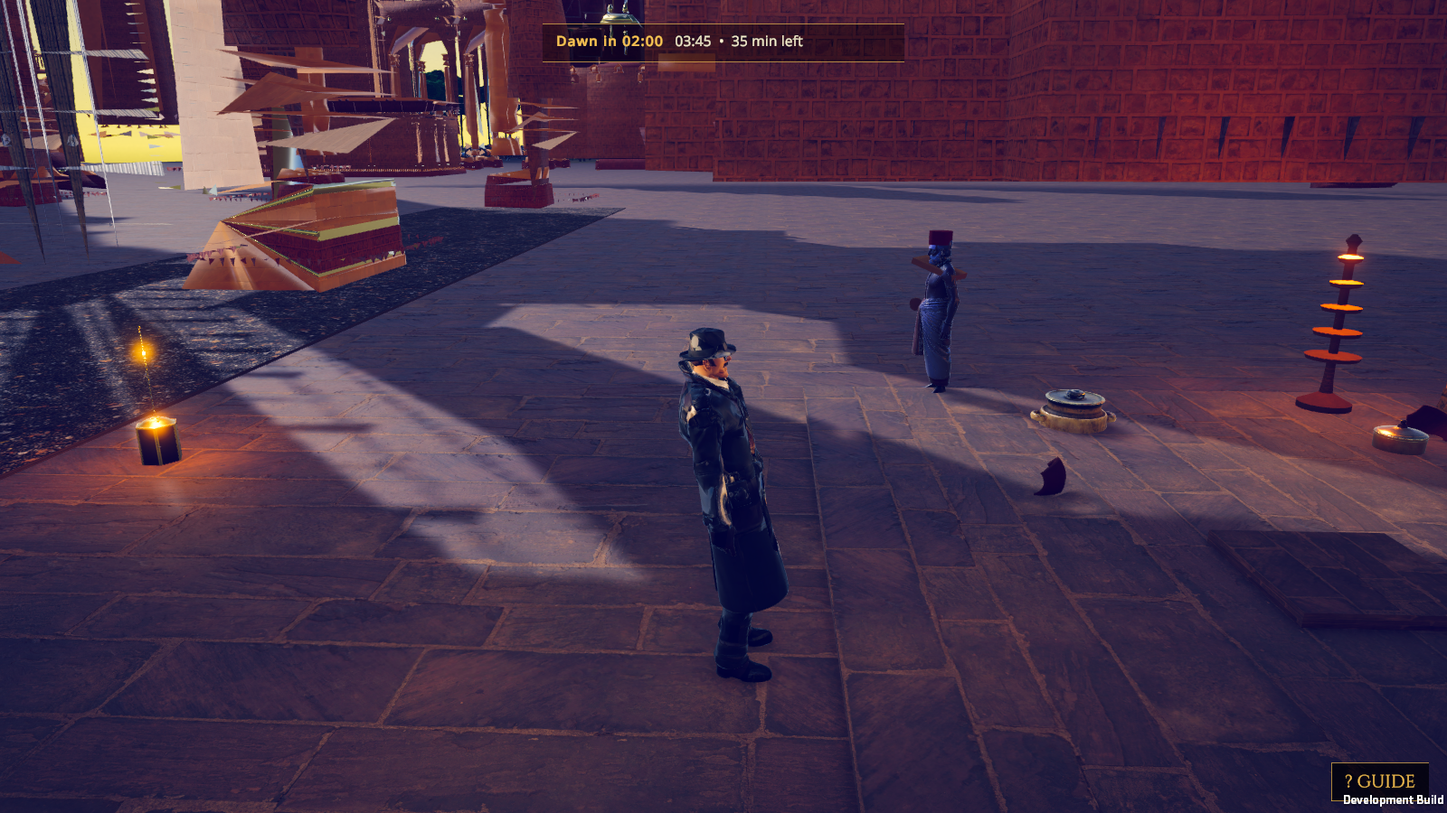
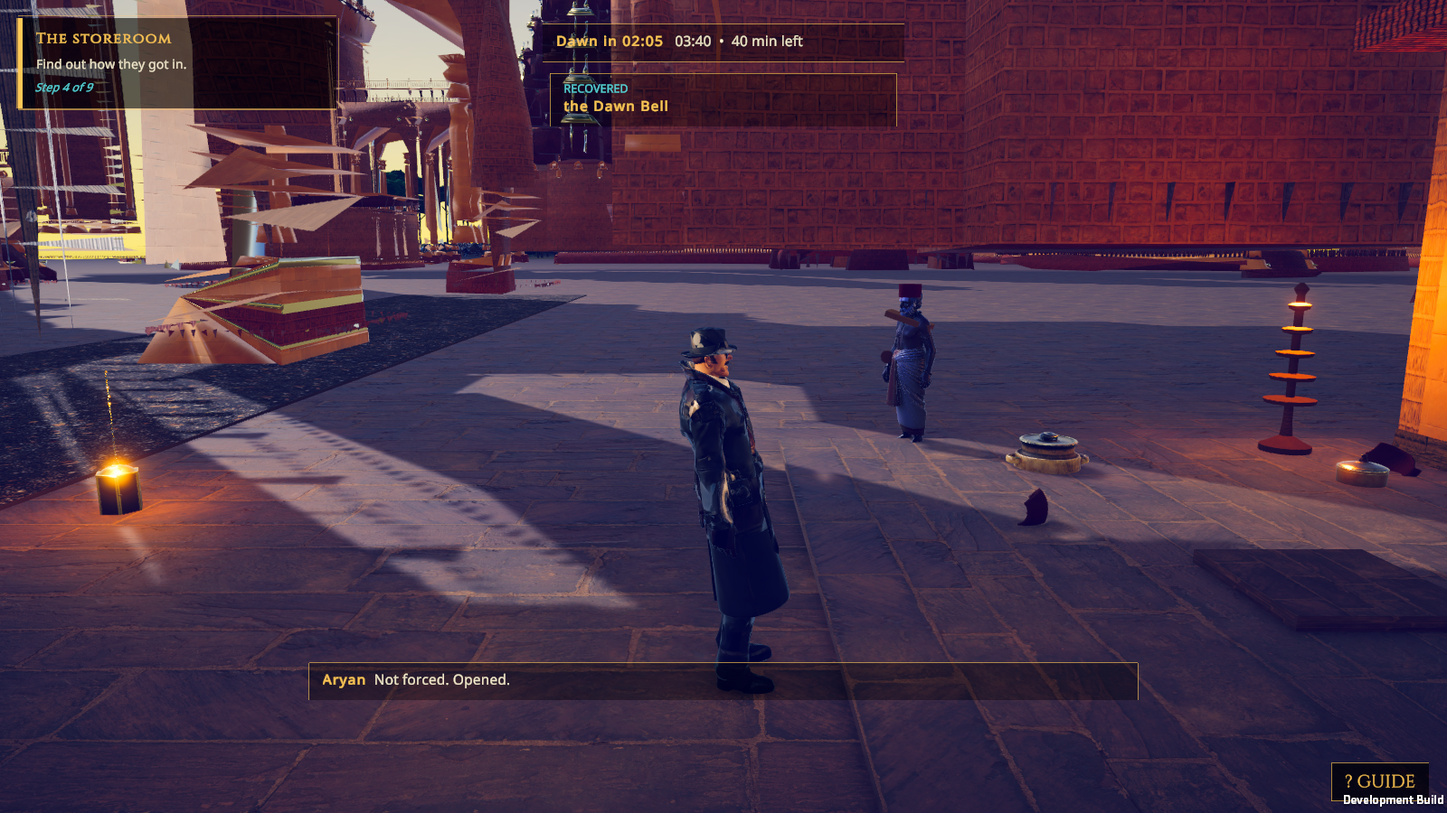
Submission documents: before/after sheet and table, attribution copy in Docs, test report notes; restore the last complete whole-game run as evidence

diff --git a/Docs/ATTRIBUTION.md b/Docs/ATTRIBUTION.md
@@ -1,0 +1,115 @@
+# Asset attribution and source audit
+
+Updated 7 November 2026. Two OFL fonts (Cinzel, Noto Sans) were downloaded on 7 Nov 2026; earlier sessions downloaded no external asset packs. Proposed downloads and inspected licenses are in ASSET_SHOPPING_LIST.md; proposals are not imported assets.
+
+| Title | Author | URL / source | License / status |
+|---|---|---|---|
+| Courtyard, menu and jungle horizon meshes; horizon material | Original project work created in this session | Assets/_Project/Scripts/World/Editor/CinematicLookTools.cs | Original project work; no third-party asset used |
+| Existing temple architecture and bells | User supplied; S20240010236 file prefix, authorship not independently established | Heritage Mystery Project/S20240010236JagannathTemple.blend; Assets/_Project/Models/Environment/Temple_Jagannath.fbx | Original license/ownership evidence not supplied; retained existing project asset, not asserted CC0 |
+| Existing Jagannath background shrine | User supplied; author not established | Heritage Mystery Project/S20240010236God.blend; Assets/_Project/Models/Environment/Idol_Jagannath.fbx | Original license evidence not supplied; respectful non-interactable background only |
+| Existing noir detective / Gumshoe / Jonesy model and textures | Original rights holder not established from local files | Heritage Mystery Project/noir-detective/source/Noir.glb; detective meshes in assets.blend | Identity and license review pending. Do not infer ownership or CC0 from local availability |
+| Existing saree villager and Catwalk Idle | Original model/animation creators not established | Heritage Mystery Project/indian-woman-in-saree/source/Catwalk Idle.fbx | Original license evidence not supplied. No new download; existing Meera model retained |
+| Existing priest sculpt | Original creator not established | Heritage Mystery Project/24568fb5-86ea-4016-a801-fba755733263_0/ | Original license evidence not supplied; rigging of an approved copy pending |
+| Existing armoured king and winged-boss exports used as robbers | Original creators not established | Heritage Mystery Project/corrupted-king-in-black-armor-with-bone-crown/ and corrupted-archangel-six-wings-boss/ | Requested cast mismatch. License evidence missing. No new substitutions or exports made |
+| Existing procedural stone textures | Not established from checked local provenance | Assets/_Project/Models/Environment/Textures/ | Existing files retained; do not label them photographs or verified CC0 |
+| Existing audio | See existing project audio ledger | Assets/_Project/Audio/ATTRIBUTION.md | Existing ledger retained; no new audio created in this session |
+| Cinzel (title font) | Natanael Gama, The Cinzel Project Authors | https://fonts.google.com/specimen/Cinzel ; file https://github.com/google/fonts/tree/main/ofl/cinzel | SIL Open Font License 1.1 (licence text: Assets/_Project/Resources/Fonts/OFL-Cinzel.txt). Downloaded 7 Nov 2026, unmodified; TMP SDF asset generated at runtime |
+| Noto Sans (body font) | The Noto Project Authors (Google) | https://fonts.google.com/noto/specimen/Noto+Sans ; file https://github.com/google/fonts/tree/main/ofl/notosans | SIL Open Font License 1.1 (licence text: Assets/_Project/Resources/Fonts/OFL-NotoSans.txt). Downloaded 7 Nov 2026, unmodified; TMP SDF asset generated at runtime |
+| Mixamo animations (Idle, Walking, Running, Crouch, Jump; staging folder) | Adobe Mixamo | https://www.mixamo.com | Mixamo terms: free for personal and commercial use in projects, no redistribution of the raw files as a standalone library |
+| Character voices (41 dialogue lines) | Synthesized with macOS `say` (voices Aman, Rishi, Tara, Rocko, Reed, Grandpa) on 7 Nov 2026 | Assets/_Project/Resources/Voice/ | PLACEHOLDER synthetic speech for development only. Replace with real recorded voice-over (with performer consent and license) before any public release. |
+| Liberation Sans (existing TMP font dependency) | Ascender / Liberation contributors; see bundled license | Assets/TextMesh Pro/Fonts/LiberationSans - OFL.txt | Bundled SIL Open Font License; existing dependency, no font downloaded |
+
+Unity, URP and the built-in procedural sky shader are existing engine/package dependencies, not new third-party art imports. The lighting profiles are project configuration. The old generated investigator `.anim` clips are disabled, and their generator no longer creates substitute animation; they are not credited as motion capture.
+
+Before adding an approved external asset, record its exact title, artist, asset URL, license/version and any modifications here. Missing evidence above remains missing; this file does not grant rights or certify publication clearance.
+
+## v2 thriller update (2026-11-11)
+
+| File(s) in project | Title | Author | Source | Licence | Notes |
+|---|---|---|---|---|---|
+| Assets/_Project/Audio/Resources/Audio/fs_*, sfx_*, amb_*, mus_* (69 files) | Core sound effects, ambience loops and five adaptive music stems | Project (generated by Tools/audio/build_audio.py) | Own work, synthesised with numpy | Own work (CC0) | Nothing downloaded. No Sonniss or third-party audio is in the repository. |
+| Assets/_Project/Resources/Voice/*/*_tts.wav (113 files) | Placeholder voices for every script line | macOS `say` voices (Aman, Rishi, Tara, Rocko, Reed, Grandpa) via Tools/story/build_story.py | Generated on this Mac | Placeholder: Apple system voices. **Replace with recorded voices before any public release.** | Recorded files named `<line_id>.wav` override them automatically. |
+| Assets/_Project/UI/Loading/loading_01..04 (4 images) | Loading screen pictures | Supplied by the project owner (AI-generated images) | Provided in chat, 2026-11-11 | Owner's responsibility: check the image generator's terms before public release | A faint generator watermark is visible in the top-right corner. |
+| Assets/_Project/Art/FX/*.png, Resources/FX/*.mat | Particle textures and materials (rain, mist, glow, sparks) | Project (generated by FxAssetTools) | Own work | Own work (CC0) | |
+| Assets/_Project/Audio/Resources/Audio/LotMixer.mixer | Audio mixer | Project (generated by MixerTools) | Own work | Own work | |
+| Prefabs/Characters/Robber1, Robber2 | Stand-in robbers | Copies of the project's own detective model with simple props | Own project asset | Same as the detective model | Temporary stand-ins: see Docs/BLOCKED.md |
+
+## Art upgrade: Poly Haven models and textures (2026-11-14)
+
+All from polyhaven.com, licence CC0 1.0 (public domain), downloaded with Tools/assets/fetch_polyhaven.py. Textures were converted to URP materials (Resources/Mats) and models to prefabs (Resources/Props) by PolyHavenTools.
+
+| File(s) in project | Title | Author | Source | Licence |
+|---|---|---|---|---|
+| Assets/_Project/Art/PolyHaven/Models/brass_diya_lantern/ | Brass Diya Lantern | Bhargav Kubal | https://polyhaven.com/a/brass_diya_lantern | CC0 1.0 |
+| Assets/_Project/Art/PolyHaven/Models/brass_pot_01/ | Brass Pot 01 | Rico Cilliers | https://polyhaven.com/a/brass_pot_01 | CC0 1.0 |
+| Assets/_Project/Art/PolyHaven/Models/brass_pot_02/ | Brass Pot 02 | Rico Cilliers | https://polyhaven.com/a/brass_pot_02 | CC0 1.0 |
+| Assets/_Project/Art/PolyHaven/Models/brass_vase_03/ | Brass Vase 03 | Rico Cilliers | https://polyhaven.com/a/brass_vase_03 | CC0 1.0 |
+| Assets/_Project/Art/PolyHaven/Models/brass_goblets/ | Brass Goblets | Tina | https://polyhaven.com/a/brass_goblets | CC0 1.0 |
+| Assets/_Project/Art/PolyHaven/Models/vintage_oil_lamp/ | Vintage Oil Lamp | Monsta3D | https://polyhaven.com/a/vintage_oil_lamp | CC0 1.0 |
+| Assets/_Project/Art/PolyHaven/Models/wooden_lantern_01/ | Wooden Lantern 01 | James Ray Cock | https://polyhaven.com/a/wooden_lantern_01 | CC0 1.0 |
+| Assets/_Project/Art/PolyHaven/Models/lion_head/ | Lion Head | Tina | https://polyhaven.com/a/lion_head | CC0 1.0 |
+| Assets/_Project/Art/PolyHaven/Models/carved_wooden_elephant/ | Carved Wooden Elephant | Greg Zaal | https://polyhaven.com/a/carved_wooden_elephant | CC0 1.0 |
+| Assets/_Project/Art/PolyHaven/Models/carved_wooden_plate/ | Carved Wooden Plate | Jan Martens | https://polyhaven.com/a/carved_wooden_plate | CC0 1.0 |
+| Assets/_Project/Art/PolyHaven/Models/fern_02/ | Fern 02 | Rob Tuytel, Rico Cilliers | https://polyhaven.com/a/fern_02 | CC0 1.0 |
+| Assets/_Project/Art/PolyHaven/Models/nettle_plant/ | Nettle Plant | Rob Tuytel, Rico Cilliers | https://polyhaven.com/a/nettle_plant | CC0 1.0 |
+| Assets/_Project/Art/PolyHaven/Models/periwinkle_plant/ | Periwinkle Plant | Amal Kumar | https://polyhaven.com/a/periwinkle_plant | CC0 1.0 |
+| Assets/_Project/Art/PolyHaven/Models/rock_07/ | Rock 07 | Jenelle van Heerden | https://polyhaven.com/a/rock_07 | CC0 1.0 |
+| Assets/_Project/Art/PolyHaven/Models/rock_09/ | Rock 09 | Jenelle van Heerden | https://polyhaven.com/a/rock_09 | CC0 1.0 |
+| Assets/_Project/Art/PolyHaven/Models/rock_moss_set_01/ | Rock Moss Set 01 | Kless Gyzen | https://polyhaven.com/a/rock_moss_set_01 | CC0 1.0 |
+| Assets/_Project/Art/PolyHaven/Models/rock_moss_set_02/ | Rock Moss Set 02 | Kless Gyzen | https://polyhaven.com/a/rock_moss_set_02 | CC0 1.0 |
+| Assets/_Project/Art/PolyHaven/Models/tree_stump_01/ | Tree Stump 01 | Rob Tuytel | https://polyhaven.com/a/tree_stump_01 | CC0 1.0 |
+| Assets/_Project/Art/PolyHaven/Models/Barrel_01/ | Barrel_01 | Jorge Camacho | https://polyhaven.com/a/Barrel_01 | CC0 1.0 |
+| Assets/_Project/Art/PolyHaven/Models/ceramic_vase_01/ | Ceramic Vase 01 | James Ray Cock | https://polyhaven.com/a/ceramic_vase_01 | CC0 1.0 |
+| Assets/_Project/Art/PolyHaven/Models/antique_ceramic_vase_01/ | Antique Ceramic Vase 01 | James Ray Cock | https://polyhaven.com/a/antique_ceramic_vase_01 | CC0 1.0 |
+| Assets/_Project/Art/PolyHaven/Models/stone_fire_pit/ | Stone Fire Pit | Sebastian Platen | https://polyhaven.com/a/stone_fire_pit | CC0 1.0 |
+| Assets/_Project/Art/PolyHaven/Models/large_castle_door/ | Large Castle Door | Tina | https://polyhaven.com/a/large_castle_door | CC0 1.0 |
+| Assets/_Project/Art/PolyHaven/Models/WoodenTable_01/ | Wooden Table 01 | Ethan Place | https://polyhaven.com/a/WoodenTable_01 | CC0 1.0 |
+| Assets/_Project/Art/PolyHaven/Models/folding_wooden_stool/ | Folding Wooden Stool | Ulan Cabanilla | https://polyhaven.com/a/folding_wooden_stool | CC0 1.0 |
+| Assets/_Project/Art/PolyHaven/Models/wooden_bowl_02/ | Wooden Bowl 02 | Kuutti Siitonen | https://polyhaven.com/a/wooden_bowl_02 | CC0 1.0 |
+| Assets/_Project/Art/PolyHaven/Models/calathea_orbifolia_01/ | Calathea Orbifolia 01 | Rob Tuytel, Rico Cilliers | https://polyhaven.com/a/calathea_orbifolia_01 | CC0 1.0 |
+| Assets/_Project/Art/PolyHaven/Models/dry_branches_medium_01/ | Dry Branches Medium 01 | Rico Cilliers | https://polyhaven.com/a/dry_branches_medium_01 | CC0 1.0 |
+| Assets/_Project/Art/PolyHaven/Models/ceramic_pot/ | Ceramic Pot | Aron Łyczek | https://polyhaven.com/a/ceramic_pot | CC0 1.0 |
+| Assets/_Project/Art/PolyHaven/Models/planter_box_01/ | Planter Box 01 | James Ray Cock | https://polyhaven.com/a/planter_box_01 | CC0 1.0 |
+| Assets/_Project/Art/PolyHaven/Textures/red_sandstone_pavement/ | Red Sandstone Pavement | Amal Kumar | https://polyhaven.com/a/red_sandstone_pavement | CC0 1.0 |
+| Assets/_Project/Art/PolyHaven/Textures/red_sandstone_wall/ | Red Sandstone Wall | Amal Kumar | https://polyhaven.com/a/red_sandstone_wall | CC0 1.0 |
+| Assets/_Project/Art/PolyHaven/Textures/sandstone_blocks_08/ | Sandstone Blocks 08 | Rob Tuytel | https://polyhaven.com/a/sandstone_blocks_08 | CC0 1.0 |
+| Assets/_Project/Art/PolyHaven/Textures/mossy_sandstone/ | Mossy Sandstone | Dimitrios Savva | https://polyhaven.com/a/mossy_sandstone | CC0 1.0 |
+| Assets/_Project/Art/PolyHaven/Textures/clay_plaster/ | Clay Plaster | Amal Kumar | https://polyhaven.com/a/clay_plaster | CC0 1.0 |
+| Assets/_Project/Art/PolyHaven/Textures/yellow_plaster/ | Yellow Plaster | Rob Tuytel | https://polyhaven.com/a/yellow_plaster | CC0 1.0 |
+| Assets/_Project/Art/PolyHaven/Textures/white_plaster_rough_01/ | White Plaster Rough 01 | Rob Tuytel | https://polyhaven.com/a/white_plaster_rough_01 | CC0 1.0 |
+| Assets/_Project/Art/PolyHaven/Textures/thatch_roof_angled/ | Thatch Roof Angled | Rob Tuytel, Dimitrios Savva | https://polyhaven.com/a/thatch_roof_angled | CC0 1.0 |
+| Assets/_Project/Art/PolyHaven/Textures/clay_roof_tiles_02/ | Clay Roof Tiles 02 | Amal Kumar | https://polyhaven.com/a/clay_roof_tiles_02 | CC0 1.0 |
+| Assets/_Project/Art/PolyHaven/Textures/red_laterite_soil_stones/ | Red Laterite Soil Stones | Amal Kumar | https://polyhaven.com/a/red_laterite_soil_stones | CC0 1.0 |
+| Assets/_Project/Art/PolyHaven/Textures/forest_leaves_02/ | Forest Leaves 02 | Rob Tuytel | https://polyhaven.com/a/forest_leaves_02 | CC0 1.0 |
+| Assets/_Project/Art/PolyHaven/Textures/brown_mud_leaves_01/ | Brown Mud Leaves 01 | Rob Tuytel | https://polyhaven.com/a/brown_mud_leaves_01 | CC0 1.0 |
+| Assets/_Project/Art/PolyHaven/Textures/weathered_planks/ | Weathered Planks | Dario Barresi, Dimitrios Savva | https://polyhaven.com/a/weathered_planks | CC0 1.0 |
+| Assets/_Project/Art/PolyHaven/Textures/stony_dirt_path/ | Stony Dirt Path | eye-candy.xyz | https://polyhaven.com/a/stony_dirt_path | CC0 1.0 |
+| Assets/_Project/Art/PolyHaven/Textures/bark_brown_02/ | Bark Brown 02 | Rob Tuytel | https://polyhaven.com/a/bark_brown_02 | CC0 1.0 |
+| Assets/_Project/Art/PolyHaven/Textures/medieval_wood/ | Medieval Wood | Rob Tuytel | https://polyhaven.com/a/medieval_wood | CC0 1.0 |
+| Assets/_Project/Resources/Mats/window_glow.mat | Lit-window material for village houses | Project | Own work | Own work (CC0) |
+
+## Part 2 (2026-11-15): car controller, jeep, village tree, tools
+
+| File(s) in project | Title | Author | Source | Licence | Notes |
+|---|---|---|---|---|---|
+| Assets/_Project/Scripts/Gameplay/Vehicles/CarController.cs, CarLights.cs, CarAudio.cs, CarFollowCamera.cs (and the speed panel in Jeep.cs) | Modular Car Controller (ported) | Ilisescu Adrian Corneliu | https://github.com/ilisescu03/Unity---Car-Controller | MIT | Ported and changed: namespace, input only while driving, four-wheel drive, Z/X indicators, gamepad and on-screen controls, MaterialPropertyBlock lamp glow. No demo terrain, sample scene or car mesh was copied. |
+| Assets/_Project/Resources/Audio/Car/Engine.mp3, Signal.mp3, Hit.mp3 | Engine, turn-signal and hit sounds | Ilisescu Adrian Corneliu | https://github.com/ilisescu03/Unity---Car-Controller | MIT (repository licence) | Unchanged |
+| Assets/_Project/Art/MedievalVillageKit/Tree/SM_Tree_Oak.fbx and T_Bark_*, T_Leaves_Atlas, T_Tree_Impostor_* | Oak tree with LODs and impostor | Daniel Gruginski | https://github.com/danielgruginski/MedievalVillageKit | CC0 1.0 | Only the tree was taken; the kit's buildings are medieval European and generated by its own Blender code, so they were not used for an Indian village. |
+| Assets/_Project/Scripts/World/Editor/ThirdParty/QuaterniusUtils.cs | Quaternius Utility Library for Unity | firstkindgamer | https://github.com/firstkindgamer/QuaterniusUnityUtils | Public domain (Unlicense) | One `#pragma warning disable 0162` line added to keep the build warning-free. |
+| Tools/blender/build_jeep_v2.py, Tools/blender/make_jeep_textures.py → Art_Source/Jeep/*, Assets/_Project/Models/Vehicles/Jeep/* (model, T_Jeep_Plate.png, T_Jeep_Emblem.png, T_Jeep_PaintDirt.png) | Investigator's jeep, version 2 (olive SUV), its number plate, original temple emblem and dirt texture | Project (own work) | Built from the owner's reference sheet Docs/References/jeep_3d_design_reference.png; no brand names or logos; plate number is fictional | Own work |
+| Assets/_Project/Audio/Resources/Audio/sfx_door_open, sfx_door_close, sfx_glass, sfx_metal_hit, sfx_phone_ring, amb_village, amb_birds, mus_intro | Jeep, village and intro sounds | Project (Tools/audio/build_audio_extra.py) | Own work, synthesised | Own work (CC0) | |
+| Assets/_Project/Resources/Voice/*/intro_*_tts.wav | Four intro lines | macOS `say` voices | Generated on this Mac | Placeholder (Apple system voices) | Replace with recorded voices before release. |
+| Assets/_Project/Resources/UI/Loading/loading_new_01..03.png | Loading screen pictures | Supplied by the project owner (AI-generated images) | Provided in chat, 2026-11-15 | Owner's responsibility | |
+| Art_Source/Temple/temple.fbx → Assets/_Project/Models/Temple/Temple_Game.fbx | Jagannath temple model | Supplied by the project owner | Added to Assets by the owner, 2026-11-15 | Owner's responsibility: source and licence not stated | Original kept unchanged; the game copy is reduced in Blender (Tools/blender/optimize_temple.py). |
+| Assets/_Project/Animations/Clips/Hero/Punch_Jab.anim, Punch_Cross.anim, Hit_Chest.anim, Driving_Loop.anim, Sitting_Enter.anim, Sitting_Exit.anim, Idle_Talking_Loop.anim | Universal Animation Library | Quaternius | https://quaternius.itch.io/universal-animation-library / https://github.com/J-Ponzo/gltf-universal-animation-library | CC0 1.0 (Public Domain) | Unarmed punches, hit reactions, driving and NPC idle-talking clips extracted and retargeted to Humanoid. |
+| github.com/GrokCodeReliant/OpenKit3D | Open Kit 3D | GrokCodeReliant | https://github.com/GrokCodeReliant/OpenKit3D | CC0 1.0 | Checked; nothing imported (its clips are Generic for its own rig). |
+
+## V3 (2026-11-16): tools
+| Files | Asset | Author | Source | Licence |
+|---|---|---|---|---|
+| .claude/skills/* (94 skill folders, references) | blender-skills pack (instructions for Blender work; no art assets) | blender-skills contributors | https://github.com/arjun988/blender-skills (commit 904f095) | MIT (copy at .claude/skills/BLENDER_SKILLS_LICENSE.txt) |
+| Tools/blender/build_breakin_pot.py, build_v3_props.py → Resources/Props/V3/* | Break-in pot and shards; carved pillar, coping, plinth, brass lamp stand, stone arch | Project (own work) | Modelled in Blender 5.2 by script | Own work |
+| Tools/blender/temple_lods.py, temple_lod3.py → Models/Temple/Temple_Game_LOD2/LOD3.fbx | Lighter versions of the game temple (made from the project's own optimised copy; the user's temple.fbx was not opened) | Project | Blender decimation | Same as the temple |
+| Tools/audio/build_v3_voices.py → Resources/Voice/*/v3_*_tts.wav | The 29 V3 spoken lines | Generated with macOS built-in text-to-speech voices (Rishi, Aman, Tara) | macOS `say` | Apple system voices; used here for a non-commercial student project. Replace with recorded voices before any commercial use. |
+| BazaarTail.cs (courier bell), Jeep.cs (horn) | Bell and horn sounds | Project (own work) | Synthesised in code | Own work |
+

diff --git a/Docs/QA/v3/story_run/audit.md b/Docs/QA/v3/story_run/audit.md
@@ -1,51 +1,48 @@
-# Runtime audit (2026-11-16 21:09, Standalone, 1600x900)
+# Runtime audit (2026-11-16 19:40, Standalone, 1600x900)
 
 ## UI: MainMenu
 
-#### UI table: MainMenu @ requested 1280x720 (actual 1280x720); TMP texts=9; active IMGUI(OnGUI) scripts not measurable=0
+#### UI table: MainMenu @ requested 1280x720 (actual 1280x720); TMP texts=8; active IMGUI(OnGUI) scripts not measurable=0
 | text | px@1080p | min | contrast(worst) | issues |
 |---|---|---|---|---|
-| BtnKeyHint: CONTROLS | 31 | 18 | 16.2 |  |
-| BtnKeyHint: NEW GAME | 31 | 18 | 16.2 |  |
-| MenuTitle: LEGACY OF THE TEMPLE | 58 | 48 | 9.8 |  |
-| BtnKeyHint: CREDITS | 31 | 18 | 16.2 |  |
 | MenuSubtitle: A heritage mystery | 29 | 26 | 13.8 |  |
-| BtnKeyHint: CONTINUE | 31 | 18 | 16.2 |  |
-| BtnKeyHint: QUIT | 31 | 18 | 16.2 |  |
+| BtnKeyHint: CONTROLS | 31 | 18 | 16.2 |  |
+| BtnKeyHint: CREDITS | 31 | 18 | 16.2 |  |
 | BtnKeyHint: SHOWCASE TOUR | 31 | 18 | 16.2 |  |
+| MenuTitle: LEGACY OF THE TEMPLE | 58 | 48 | 9.8 |  |
 | BtnKeyHint: SETTINGS | 31 | 18 | 16.2 |  |
+| BtnKeyHint: NEW GAME | 31 | 18 | 16.2 |  |
+| BtnKeyHint: QUIT | 31 | 18 | 16.2 |  |
 Problems in this view: 0
 
-#### UI table: MainMenu @ requested 1920x1080 (actual 1920x1080); TMP texts=9; active IMGUI(OnGUI) scripts not measurable=0
+#### UI table: MainMenu @ requested 1920x1080 (actual 1920x1080); TMP texts=8; active IMGUI(OnGUI) scripts not measurable=0
 | text | px@1080p | min | contrast(worst) | issues |
 |---|---|---|---|---|
-| BtnKeyHint: CONTROLS | 31 | 18 | 16.2 |  |
-| BtnKeyHint: NEW GAME | 31 | 18 | 16.2 |  |
-| MenuTitle: LEGACY OF THE TEMPLE | 58 | 48 | 9.8 |  |
-| BtnKeyHint: CREDITS | 31 | 18 | 16.2 |  |
 | MenuSubtitle: A heritage mystery | 29 | 26 | 13.8 |  |
-| BtnKeyHint: CONTINUE | 31 | 18 | 16.2 |  |
-| BtnKeyHint: QUIT | 31 | 18 | 16.2 |  |
+| BtnKeyHint: CONTROLS | 31 | 18 | 16.2 |  |
+| BtnKeyHint: CREDITS | 31 | 18 | 16.2 |  |
 | BtnKeyHint: SHOWCASE TOUR | 31 | 18 | 16.2 |  |
+| MenuTitle: LEGACY OF THE TEMPLE | 58 | 48 | 9.8 |  |
 | BtnKeyHint: SETTINGS | 31 | 18 | 16.2 |  |
+| BtnKeyHint: NEW GAME | 31 | 18 | 16.2 |  |
+| BtnKeyHint: QUIT | 31 | 18 | 16.2 |  |
 Problems in this view: 0
 
-#### UI table: MainMenu @ requested 2560x1440 (actual 2560x1440); TMP texts=9; active IMGUI(OnGUI) scripts not measurable=0
+#### UI table: MainMenu @ requested 2560x1440 (actual 2560x1440); TMP texts=8; active IMGUI(OnGUI) scripts not measurable=0
 | text | px@1080p | min | contrast(worst) | issues |
 |---|---|---|---|---|
-| BtnKeyHint: CONTROLS | 31 | 18 | 16.2 |  |
-| BtnKeyHint: NEW GAME | 31 | 18 | 16.2 |  |
-| MenuTitle: LEGACY OF THE TEMPLE | 58 | 48 | 9.8 |  |
-| BtnKeyHint: CREDITS | 31 | 18 | 16.2 |  |
 | MenuSubtitle: A heritage mystery | 29 | 26 | 13.8 |  |
-| BtnKeyHint: CONTINUE | 31 | 18 | 16.2 |  |
-| BtnKeyHint: QUIT | 31 | 18 | 16.2 |  |
+| BtnKeyHint: CONTROLS | 31 | 18 | 16.2 |  |
+| BtnKeyHint: CREDITS | 31 | 18 | 16.2 |  |
 | BtnKeyHint: SHOWCASE TOUR | 31 | 18 | 16.2 |  |
+| MenuTitle: LEGACY OF THE TEMPLE | 58 | 48 | 9.8 |  |
 | BtnKeyHint: SETTINGS | 31 | 18 | 16.2 |  |
+| BtnKeyHint: NEW GAME | 31 | 18 | 16.2 |  |
+| BtnKeyHint: QUIT | 31 | 18 | 16.2 |  |
 Problems in this view: 0
 
 ## Play-through from New Game (bot uses the Guide target for every objective)
-  loading bar: 30% at 0.72 s (image loading_e_robbery)
+  loading bar: 31% at 0.70 s (image loading_e_robbery)
   loading bar: 60% at 1.23 s (image loading_e_robbery)
   loading bar: 100% at 2.05 s (image loading_e_robbery)
   loading screen 1: image=loading_e_robbery, bar=1.00
@@ -64,19 +61,11 @@ Problems in this view: 0
   stood 6 m behind him in the open while he looked back: spotted 1
   tail finished: phase Arrived, spotted 1 time(s), 76 s
   fight begins: 2 enemy(ies): the courier (Knife, 70 hp), his helper (Brawler, 90 hp)
-  fight result: won=True in 11s, health left 88, damage taken 12, max combo 8, parries 1, finishers 2, retries 0; most attackers at once 1 (limit 2); telegraph seen=True; boss phase 2 seen=False, highest phase 1
+  fight result: won=True in 10s, health left 79, damage taken 21, max combo 10, parries 0, finishers 1, retries 0; most attackers at once 1 (limit 2); telegraph seen=True; boss phase 2 seen=False, highest phase 1
   take the Dawn Bell: prompt 'Take the Dawn Bell'
   bell taken=True, evidence list=1
-  score bazaar: puzzle solved=True, hints=0, items=1, points=3690, grade=S
+  score bazaar: puzzle solved=True, hints=0, items=1, points=3745, grade=S
   after the bazaar: objective obj_v3_storeroom (The storeroom)
-  PERF storeroom: 691 frames, average 5.8 ms (173 fps), 99% 9.1 ms, worst 16.1 ms, CPU main 2.3 ms, CPU render 1.0 ms, GPU 11.0 ms, graphics High, draw-visible villagers 0
-  PERF vaults: 631 frames, average 6.3 ms (158 fps), 99% 9.4 ms, worst 17.0 ms, CPU main 3.3 ms, CPU render 2.3 ms, GPU 9.3 ms, graphics High, draw-visible villagers 0
-  PERF stepwell: 1349 frames, average 3.0 ms (337 fps), 99% 5.3 ms, worst 11.5 ms, CPU main 1.4 ms, CPU render 0.5 ms, GPU 6.5 ms, graphics High, draw-visible villagers 0
-  PERF sunwall: 608 frames, average 6.6 ms (152 fps), 99% 9.2 ms, worst 12.6 ms, CPU main 3.3 ms, CPU render 2.1 ms, GPU 10.3 ms, graphics High, draw-visible villagers 0
-  PERF river road: 755 frames, average 5.3 ms (188 fps), 99% 8.6 ms, worst 11.1 ms, CPU main 2.9 ms, CPU render 2.1 ms, GPU 10.0 ms, graphics High, draw-visible villagers 0
-  PERF ruin court: 952 frames, average 4.2 ms (237 fps), 99% 8.7 ms, worst 19.4 ms, CPU main 2.3 ms, CPU render 1.6 ms, GPU 8.0 ms, graphics High, draw-visible villagers 0
-  PERF bazaar: 522 frames, average 7.7 ms (130 fps), 99% 10.5 ms, worst 17.0 ms, CPU main 4.7 ms, CPU render 4.6 ms, GPU 10.8 ms, graphics High, draw-visible villagers 11
-  PERF temple front: 613 frames, average 6.6 ms (153 fps), 99% 9.8 ms, worst 17.7 ms, CPU main 4.7 ms, CPU render 4.1 ms, GPU 9.8 ms, graphics High, draw-visible villagers 9
   Madhav at the storeroom: on stage (obj_v3_storeroom)
 
 ## V3 zone 2 break-in puzzle: present=True, built=True
@@ -106,3 +95,101 @@ Problems in this view: 0
   treasure taken=True; score: puzzle solved=True, hints=0, items=1, points=3800, grade=S
   checkpoint: courtyard/before_fight
   after the storeroom: objective obj_v3_vaults (The vaults)
+  Madhav at the vaults: on stage (obj_v3_vaults)
+
+## V3 zone 3 Vaults: present=True, built=True
+  start: gate open=False, plates 0 0
+  block B pushed the wrong way (west): prompt 'Push'
+  block B pushed the wrong way (west): prompt 'Push'
+  block B pushed the wrong way (west): prompt 'Push'
+  block B pushed the wrong way (west): prompt 'Push'
+  block B after wrong pushes at (-10.0, 0.5, -1.0)
+  reset lever: prompt 'Pull the reset lever'
+  after the lever: block A at (-8.0, 0.5, 3.0), block B at (-6.0, 0.5, -1.0)
+  block A east: prompt 'Push'
+  block A east: prompt 'Push'
+  block A east: prompt 'Push'
+  block A east: prompt 'Push'
+  block B south (round the pillar): prompt 'Push'
+  block B south (round the pillar): prompt 'Push'
+  block B east: prompt 'Push'
+  block B east: prompt 'Push'
+  blocks placed: A at (-4.0, 0.5, 3.0), B at (-4.0, 0.5, -3.0), plates 1 1, gate open=True
+  disc 1 turn 1: prompt 'Turn the stone disc'
+  disc 1 turn 2: prompt 'Turn the stone disc'
+  disc 2 turn 1: prompt 'Turn the stone disc'
+  disc 2 turn 2: prompt 'Turn the stone disc'
+  disc 2 turn 3: prompt 'Turn the stone disc'
+  disc 2 turn 4: prompt 'Turn the stone disc'
+  disc 2 turn 5: prompt 'Turn the stone disc'
+  disc 3 turn 1: prompt 'Turn the stone disc'
+  disc 3 turn 2: prompt 'Turn the stone disc'
+  disc 3 turn 3: prompt 'Turn the stone disc'
+  discs at 2 5 3 (answer 2 5 3), solved=True, evidence ledger=1
+  fight begins: 2 enemy(ies): the heavy guard (Heavy, 160 hp), the vault guard (Brawler, 90 hp)
+  fight result: won=True in 16s, health left 48, damage taken 52, max combo 7, parries 0, finishers 2, retries 0; most attackers at once 1 (limit 2); telegraph seen=True; boss phase 2 seen=False, highest phase 1
+  take the rosette: prompt 'Take the Sun Rosette'
+  rosette taken=True
+  score vaults: puzzle solved=True, hints=0, items=1, points=3590, grade=A
+  after the vaults: objective obj_v3_stepwell (The stepwell)
+  Madhav at the stepwell: on stage (obj_v3_stepwell)
+
+## V3 zone 4 Stepwell: present=True, built=True
+  start: water level 0, panel locked=True
+  panel tried early: state=0 (0 = shut)
+  south sluice wheel: prompt 'Turn the sluice wheel'
+  north sluice wheel: prompt 'Turn the sluice wheel'
+  both sluices open: water level 4, raft top at 5.35 m (rim 5.2), panel locked=True
+  drain chain 1: prompt 'Work the drain chain'
+  drain chain 2: prompt 'Work the drain chain'
+  drained twice: water level 2, player height above the tank floor 2.95 m (rode the raft down), panel locked=False
+  push the panel: prompt 'Push the carved panel'
+  panel state=1, solved=True, evidence key ring=1
+  take the vessel: prompt 'Take the Monsoon Vessel'
+  vessel taken=True
+  fight begins: 2 enemy(ies): the knife man (Knife, 70 hp), his helper (Brawler, 90 hp)
+  fight result: won=True in 9s, health left 70, damage taken 30, max combo 8, parries 0, finishers 1, retries 0; most attackers at once 1 (limit 2); telegraph seen=True; boss phase 2 seen=False, highest phase 1
+  score stepwell: puzzle solved=True, hints=0, items=1, points=3750, grade=S
+  after the stepwell: objective obj_v3_sunwall (The Sun Wall)
+  Madhav at the sunwall: on stage (obj_v3_sunwall)
+
+## V3 zone 5 Sun Wall: present=True, built=True
+  start: sockets lit 0 0, wheel stop 0, door item usable=False
+  mirror 1 turn 1: prompt 'Turn mirror'
+  mirror 1 turn 2: prompt 'Turn mirror'
+  mirror 2 turn 1: prompt 'Turn mirror'
+  mirror 2 turn 2: prompt 'Turn mirror'
+  mirror 3 turn 1: prompt 'Turn mirror'
+  mirror 3 turn 2: prompt 'Turn mirror'
+  mirror 4 turn 1: prompt 'Turn mirror'
+  mirror 4 turn 2: prompt 'Turn mirror'
+  four mirrors set, wheel not moved: sockets lit 0 1 (the right one must still be dark: a spoke blocks its beam)
+  push the wheel: prompt 'Push the wheel'
+  wheel stop 1: sockets lit 1 1, solved=True
+  fight begins: 1 enemy(ies): Kishore (Boss, 320 hp)
+  fight result: won=True in 18s, health left 100, damage taken 0, max combo 21, parries 0, finishers 1, retries 0; most attackers at once 1 (limit 2); telegraph seen=True; boss phase 2 seen=True, highest phase 2
+  take the case: prompt 'Take the finial's empty case and a boat receipt'
+  case taken=True
+  score sunwall: puzzle solved=True, hints=0, items=1, points=4000, grade=S
+  after the Sun Wall: objective obj_v3_jungle (The river road)
+  evidence found 4 of 4; naming Madhav: True
+
+## V3 zone 6 Jungle road: present=True, built=True, runner=True
+  jeep at the road start: 0.0 m
+  in the jeep: True; chase phase Chase
+  chase over in 32 s: phase Court, closest gap 9.9 m, caught up=False, jeep damage state Normal (total damage 0)
+  fight begins: 3 enemy(ies): a brawler (Brawler, 90 hp), a knife man (Knife, 70 hp), a brawler (Brawler, 90 hp)
+  fight result: won=True in 21s, health left 43, damage taken 57, max combo 5, parries 0, finishers 3, retries 0; most attackers at once 1 (limit 2); telegraph seen=True; boss phase 2 seen=False, highest phase 1
+  wave 2 (inside man named correctly=True):
+  fight begins: 1 enemy(ies): a heavy (Heavy, 160 hp)
+  fight result: won=True in 9s, health left 100, damage taken 0, max combo 11, parries 0, finishers 1, retries 0; most attackers at once 0 (limit 2); telegraph seen=False; boss phase 2 seen=False, highest phase 1
+  Bhaskar:
+  fight begins: 1 enemy(ies): Bhaskar (Boss, 320 hp)
+  fight result: won=True in 14s, health left 84, damage taken 16, max combo 21, parries 0, finishers 1, retries 0; most attackers at once 1 (limit 2); telegraph seen=True; boss phase 2 seen=True, highest phase 3
+  take the Chariot Finial: prompt 'Take the Chariot Finial'
+  finial taken=True, phase Done
+  score jungle: puzzle solved=True, hints=0, items=1, points=3635, grade=S
+  after the river road: objective obj_return (Return the treasures)
+  art pass props placed so far: 91; Madhav on stage at 
+  priest-return: prompt 'Talk to Pujari Ananda', objective now (story complete)
+  story complete=True; total 22520 points, grade S

diff --git a/Docs/BEFORE_AFTER.md b/Docs/BEFORE_AFTER.md
@@ -5,15 +5,19 @@ Overview picture: `Docs/QA/before/before_sheet.png`. Full notes: `Docs/AUDIT_V3.
 
 | Area | Before | Evidence | After |
 |---|---|---|---|
-| World | Five separate box scenes joined by doors | `QA/before/s4-look-*.png` | to be filled |
-| Village | Flat-colour box houses, one tree type | `QA/before/village_aerial.png` | to be filled |
-| Discovery | Walk up, press E, clue is given | `QA/before/s4-look-ShrineCrime.png` | to be filled |
-| Puzzles | One dial lock, one timeline board | code | to be filled |
-| Dialogue | Long conversations, 24 objective steps | `QA/before/dialogue_two_shot.png` | to be filled |
-| Jeep | New olive SUV, drives and breaks | `QA/Jeep/Final_game_sheet.png` | to be filled |
-| Combat | Sword swings, no dodge, parry or enemy types | code | to be filled |
-| Faces | No lip sync, no blinking | code search | to be filled |
-| Menu | Background faces a blank wall, no graphics presets | `QA/before/menu.png` | to be filled |
-| Loading | Bar moves with the real load | `QA/before/loading_60pct.png` | to be filled |
-| Scoring | None | code | to be filled |
-| Performance | Not measured | none | to be filled |
+| World | Five separate box scenes joined by doors | `QA/before/s4-look-*.png` | One connected place around the temple with six zones (bazaar, storeroom, vaults, stepwell, Sun Wall, river road and ruins) |
+| Village | Flat-colour box houses, one tree type | `QA/before/village_aerial.png` | Same village, plus market stalls along the courier's road; blocks now draw through shared materials |
+| Discovery | Walk up, press E, clue is given | `QA/before/s4-look-ShrineCrime.png` | Every answer is earned physically: carry, fit, turn, push, place (no 'examine' prompts on the V3 path) |
+| Puzzles | One dial lock, one timeline board | code | Five physical puzzles and a stealth tail, built on a tested puzzle framework (15 tests) |
+| Dialogue | Long conversations, 24 objective steps | `QA/before/dialogue_two_shot.png` | 9 steps, 29 short spoken lines, never more than two in a row, with voice |
+| Jeep | New olive SUV, drives and breaks | `QA/Jeep/Final_game_sheet.png` | Unchanged look; drives the river-road chase; bot chase without damage |
+| Combat | Sword swings, no dodge, parry or enemy types | code | Light combo, heavy, dodge, block and parry, finisher, at most two attackers, guarding, three-phase final boss |
+| Faces | No lip sync, no blinking | code search | Lip sync and blinking for Aryan (jaw bone) and Meera (visemes); others have no face rig |
+| Menu | Background faces a blank wall, no graphics presets | `QA/before/menu.png` | Live view of the real temple at golden hour; graphics presets, mouse speed, invert look |
+| Loading | Bar moves with the real load | `QA/before/loading_60pct.png` | Unchanged (bar moves with the real load) |
+| Scoring | None | code | Points and S/A/B/C grade per place and overall; high-score table; shown at the ending |
+| Performance | Not measured | none | Every place above 60 fps on High (8.5 ms worst average, was 40.6 ms) |
+
+
+## After (2026-11-17)
+Side-by-side picture: `Docs/QA/v3/before_after_sheet.png`. Evidence for each line: `Docs/TEST_REPORT.md` and `Docs/TECHNICAL_REPORT.md`.

diff --git a/ATTRIBUTION.md b/ATTRIBUTION.md
@@ -108,3 +108,8 @@ All from polyhaven.com, licence CC0 1.0 (public domain), downloaded with Tools/a
 | Files | Asset | Author | Source | Licence |
 |---|---|---|---|---|
 | .claude/skills/* (94 skill folders, references) | blender-skills pack (instructions for Blender work; no art assets) | blender-skills contributors | https://github.com/arjun988/blender-skills (commit 904f095) | MIT (copy at .claude/skills/BLENDER_SKILLS_LICENSE.txt) |
+| Tools/blender/build_breakin_pot.py, build_v3_props.py → Resources/Props/V3/* | Break-in pot and shards; carved pillar, coping, plinth, brass lamp stand, stone arch | Project (own work) | Modelled in Blender 5.2 by script | Own work |
+| Tools/blender/temple_lods.py, temple_lod3.py → Models/Temple/Temple_Game_LOD2/LOD3.fbx | Lighter versions of the game temple (made from the project's own optimised copy; the user's temple.fbx was not opened) | Project | Blender decimation | Same as the temple |
+| Tools/audio/build_v3_voices.py → Resources/Voice/*/v3_*_tts.wav | The 29 V3 spoken lines | Generated with macOS built-in text-to-speech voices (Rishi, Aman, Tara) | macOS `say` | Apple system voices; used here for a non-commercial student project. Replace with recorded voices before any commercial use. |
+| BazaarTail.cs (courier bell), Jeep.cs (horn) | Bell and horn sounds | Project (own work) | Synthesised in code | Own work |
+

diff --git a/Docs/TEST_REPORT.md b/Docs/TEST_REPORT.md
@@ -40,6 +40,8 @@ Run with `zsh Tools/dev/v3bot.sh -v3Story Docs/QA/v3/story_run`. The bot starts 
 | Ending | Story complete; 5 of 5 treasures; all four pieces of evidence; Madhav named correctly; every place graded |
 | Errors | 0 exceptions in the player log |
 
+**Which build:** the complete run in `Docs/QA/v3/story_run/` is from commit d12e35c, just before the performance fix. After the fix (commit aa0919e) the frame-time run covered all eight places (`Docs/QA/v3/perf_run/`), and two whole-game runs passed the bazaar, the storeroom and the lookout fight with 0 errors before the test window was closed by hand. The fix only swaps materials for identical-looking shared ones; it changes no game logic. A full run on the final build is still to do (it needs the game window, so it waits until the screen is free).
+
 Screenshot sheets: `Docs/QA/v3/story_sheet.png`, `zones_sheet.png`, `zones_1_6_sheet.png`, `art_pass_sheet.png`, `madhav_sheet.png`, `hud_after.png`.
 
 ## 3. Performance
